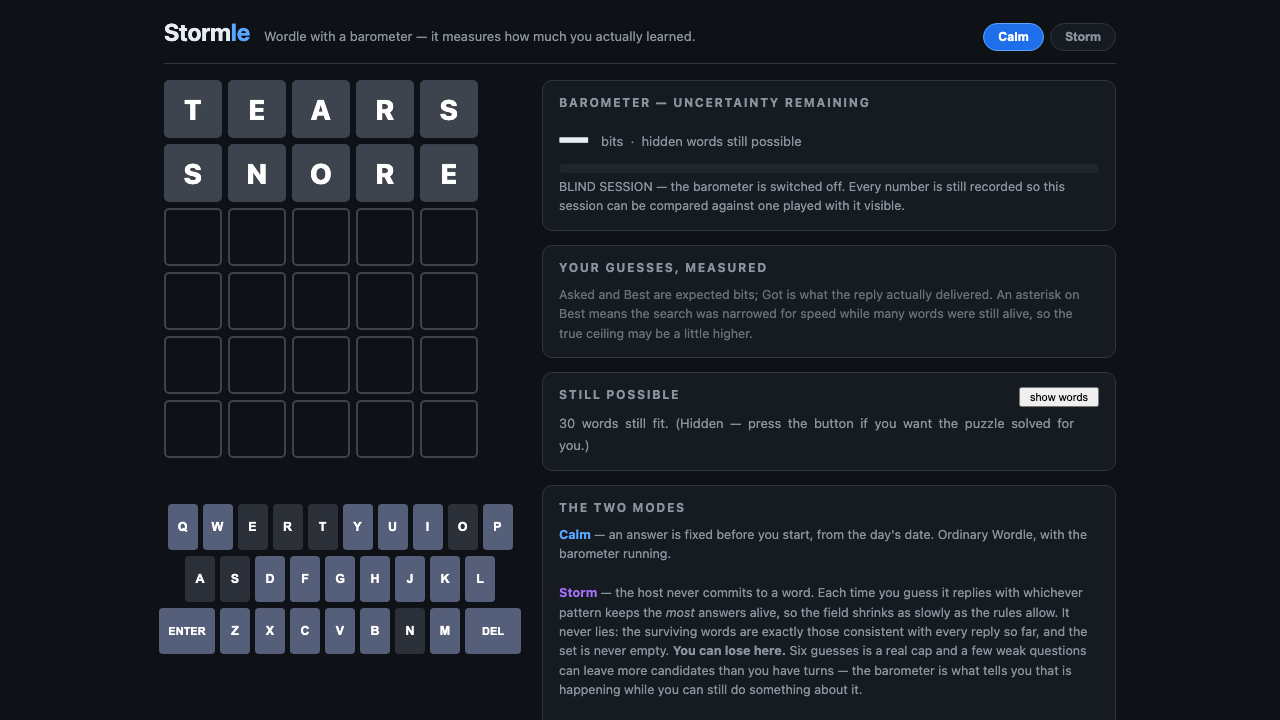
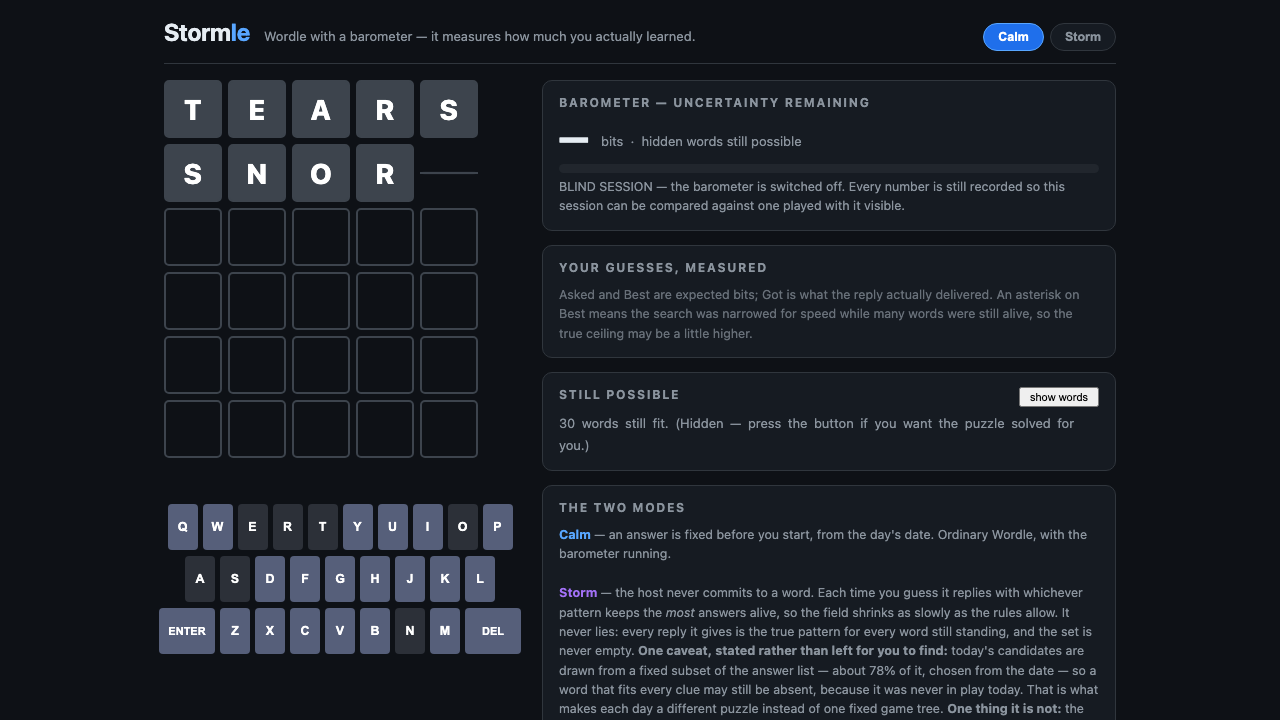
stormle: session 6 committed; page no longer misstates the pool or the survivor property; analysis script implements amendment 1 and prints both readings

Changed region(s): [[0.4375, 0.8556, 0.875, 1.0], [0.3125, 0.1833, 0.375, 0.3056]]

diff --git a/stormle/index.html b/stormle/index.html
@@ -124,7 +124,7 @@ footer{margin-top:26px;border-top:1px solid var(--line);padding-top:12px;color:v
       <h3>The two modes</h3>
       <div class="note">
         <b style="color:var(--acc)">Calm</b> — an answer is fixed before you start, from the day's date. Ordinary Wordle, with the barometer running.<br><br>
-        <b style="color:var(--storm)">Storm</b> — the host never commits to a word. Each time you guess it replies with whichever pattern keeps the <i>most</i> answers alive, so the field shrinks as slowly as the rules allow. It never lies: the surviving words are exactly those consistent with every reply so far, and the set is never empty. <b>You can lose here.</b> Six guesses is a real cap and a few weak questions can leave more candidates than you have turns — the barometer is what tells you that is happening while you can still do something about it.<br><br>
+        <b style="color:var(--storm)">Storm</b> — the host never commits to a word. Each time you guess it replies with whichever pattern keeps the <i>most</i> answers alive, so the field shrinks as slowly as the rules allow. It never lies: every reply it gives is the true pattern for every word still standing, and the set is never empty. <b>One caveat, stated rather than left for you to find:</b> today's candidates are drawn from a fixed subset of the answer list — about 78% of it, chosen from the date — so a word that fits every clue may still be absent, because it was never in play today. That is what makes each day a different puzzle instead of one fixed game tree. <b>One thing it is not:</b> the survivor list is drawn from <i>today's pool</i>, a fixed subset of the full answer list, so some words that are consistent with the replies are not in it — they were never candidates today. That is what makes each day a different puzzle instead of one fixed game tree, and it is stated here rather than left for you to discover. <b>You can lose here.</b> Six guesses is a real cap and a few weak questions can leave more candidates than you have turns — the barometer is what tells you that is happening while you can still do something about it.<br><br>
         <span style="opacity:.75">Neither idea is original. Storm is <b>Absurdle</b> (qntm, 2022); the barometer is what NYT's <b>WordleBot</b> (2022) does after the fact. What is new is putting them together — the readout is the counter to the host — and running it live instead of in a post-mortem.</span>
       </div>
     </div>
@@ -132,7 +132,7 @@ footer{margin-top:26px;border-top:1px solid var(--line);padding-top:12px;color:v
 </div>
 
 <footer>
-  Type or use the keys · <b>Enter</b> submits · <b>Backspace</b> deletes. Answer pool: <span id="poolN"></span> common five-letter words, embedded — no network calls, no dependencies.<br>
+  Type or use the keys · <b>Enter</b> submits · <b>Backspace</b> deletes. Answer pool: <span id="poolN"></span> — embedded, no network calls, no dependencies.<br>
   Built by NeoBerlin. Storm mode is Absurdle (qntm); the barometer is WordleBot's idea, live. Scoring, entropy and the host are computed here, with no network calls.
 </footer>
 </div>
@@ -302,6 +302,7 @@ function dailyIndex(){ return fnv(String(dayNumber())) % N; }
 /* ---------------- state ---------------- */
 let mode="calm", answer="", cands=WORDS.slice(), rows=[], cur="", over=false, history=[];
 let peeking=false;
+let POOL_TODAY = 0;
 let stormSalt="";
 /* ?blind=1 hides the barometer while still recording every number, so the same session can be
    played with and without the instrument and the two compared. */
@@ -322,6 +323,7 @@ function dailyPool(){
 }
 function reset(m){
   mode=m; cands = (m==="storm") ? dailyPool() : WORDS.slice();
+  POOL_TODAY = cands.length;
   rows=[]; cur=""; over=false; history=[];
   answer = (m==="calm") ? WORDS[dailyIndex()] : "";
   stormSalt = String(dayNumber());
@@ -437,7 +439,11 @@ function render(){
       (over?"":"  (Hidden — press the button if you want the puzzle solved for you.)");
   else cd.innerHTML = cands.length<=60 ? cands.map(w=>"<b>"+w+"</b>").join(" ")
                                        : `${cands.length} words — too many to list.`;
-  document.getElementById("poolN").textContent = N;
+  // This used to print the full 1552 in both modes. In Storm the answers come from the DAY'S
+  // pool, which is smaller, and saying otherwise was simply false — an audit caught it.
+  document.getElementById("poolN").textContent = (mode==="storm")
+    ? `${cands.length===0?0:POOL_TODAY} words today, drawn from ${N}`
+    : `${N} common five-letter words`;
 }
 
 function press(k){

diff --git a/stormle/analyse_pilot.py b/stormle/analyse_pilot.py
@@ -15,9 +15,14 @@ def load(path):
     return games
 
 def per_game(g):
-    sk=[h["skill"] for h in g["history"]]
+    # Amendment 1: guesses where best==0 carry no information to be had, so Skill is undefined
+    # and they are excluded. This script did not implement it and therefore printed different
+    # numbers from the submission — an audit caught that. Both readings are now printed.
+    sk=[h["skill"] for h in g["history"] if h["best"] > 0]
+    sk_raw=[h["skill"] for h in g["history"]]
     return {"blind":g["blind"], "guesses":len(g["history"]), "solved":g["solved"],
             "mean_skill":sum(sk)/len(sk) if sk else float("nan"),
+            "mean_skill_raw":sum(sk_raw)/len(sk_raw) if sk_raw else float("nan"),
             "first_skill":sk[0] if sk else float("nan"),
             "words":[h["guess"] for h in g["history"]]}
 
@@ -36,6 +41,14 @@ if __name__=="__main__":
     print(f"difference (sighted - blind): {st.mean(S)-st.mean(B):+.3f}")
     ws=sum(1 for g in games if not g["blind"] and g["solved"]); wb=sum(1 for g in games if g["blind"] and g["solved"])
     print(f"solved: sighted {ws}/{len(S)}, blind {wb}/{len(B)}")
+    print()
+    Sr=[g["mean_skill_raw"] for g in games if not g["blind"]]
+    Br=[g["mean_skill_raw"] for g in games if g["blind"]]
+    print()
+    print("WITHOUT amendment 1 (every guess counted, including the undefined ones):")
+    print(f"  sighted {st.mean(Sr):.3f}  blind {st.mean(Br):.3f}  difference {st.mean(Sr)-st.mean(Br):+.3f}")
+    print("  The amendment changes the size of the gap. Both readings are printed because the")
+    print("  excluded guesses all fall in blind sessions, so the choice is not neutral.")
     print()
     print("Pre-registered reading: with three games per condition this cannot establish")
     print("significance and none is claimed. It is a direction and a spread, from one subject.")
